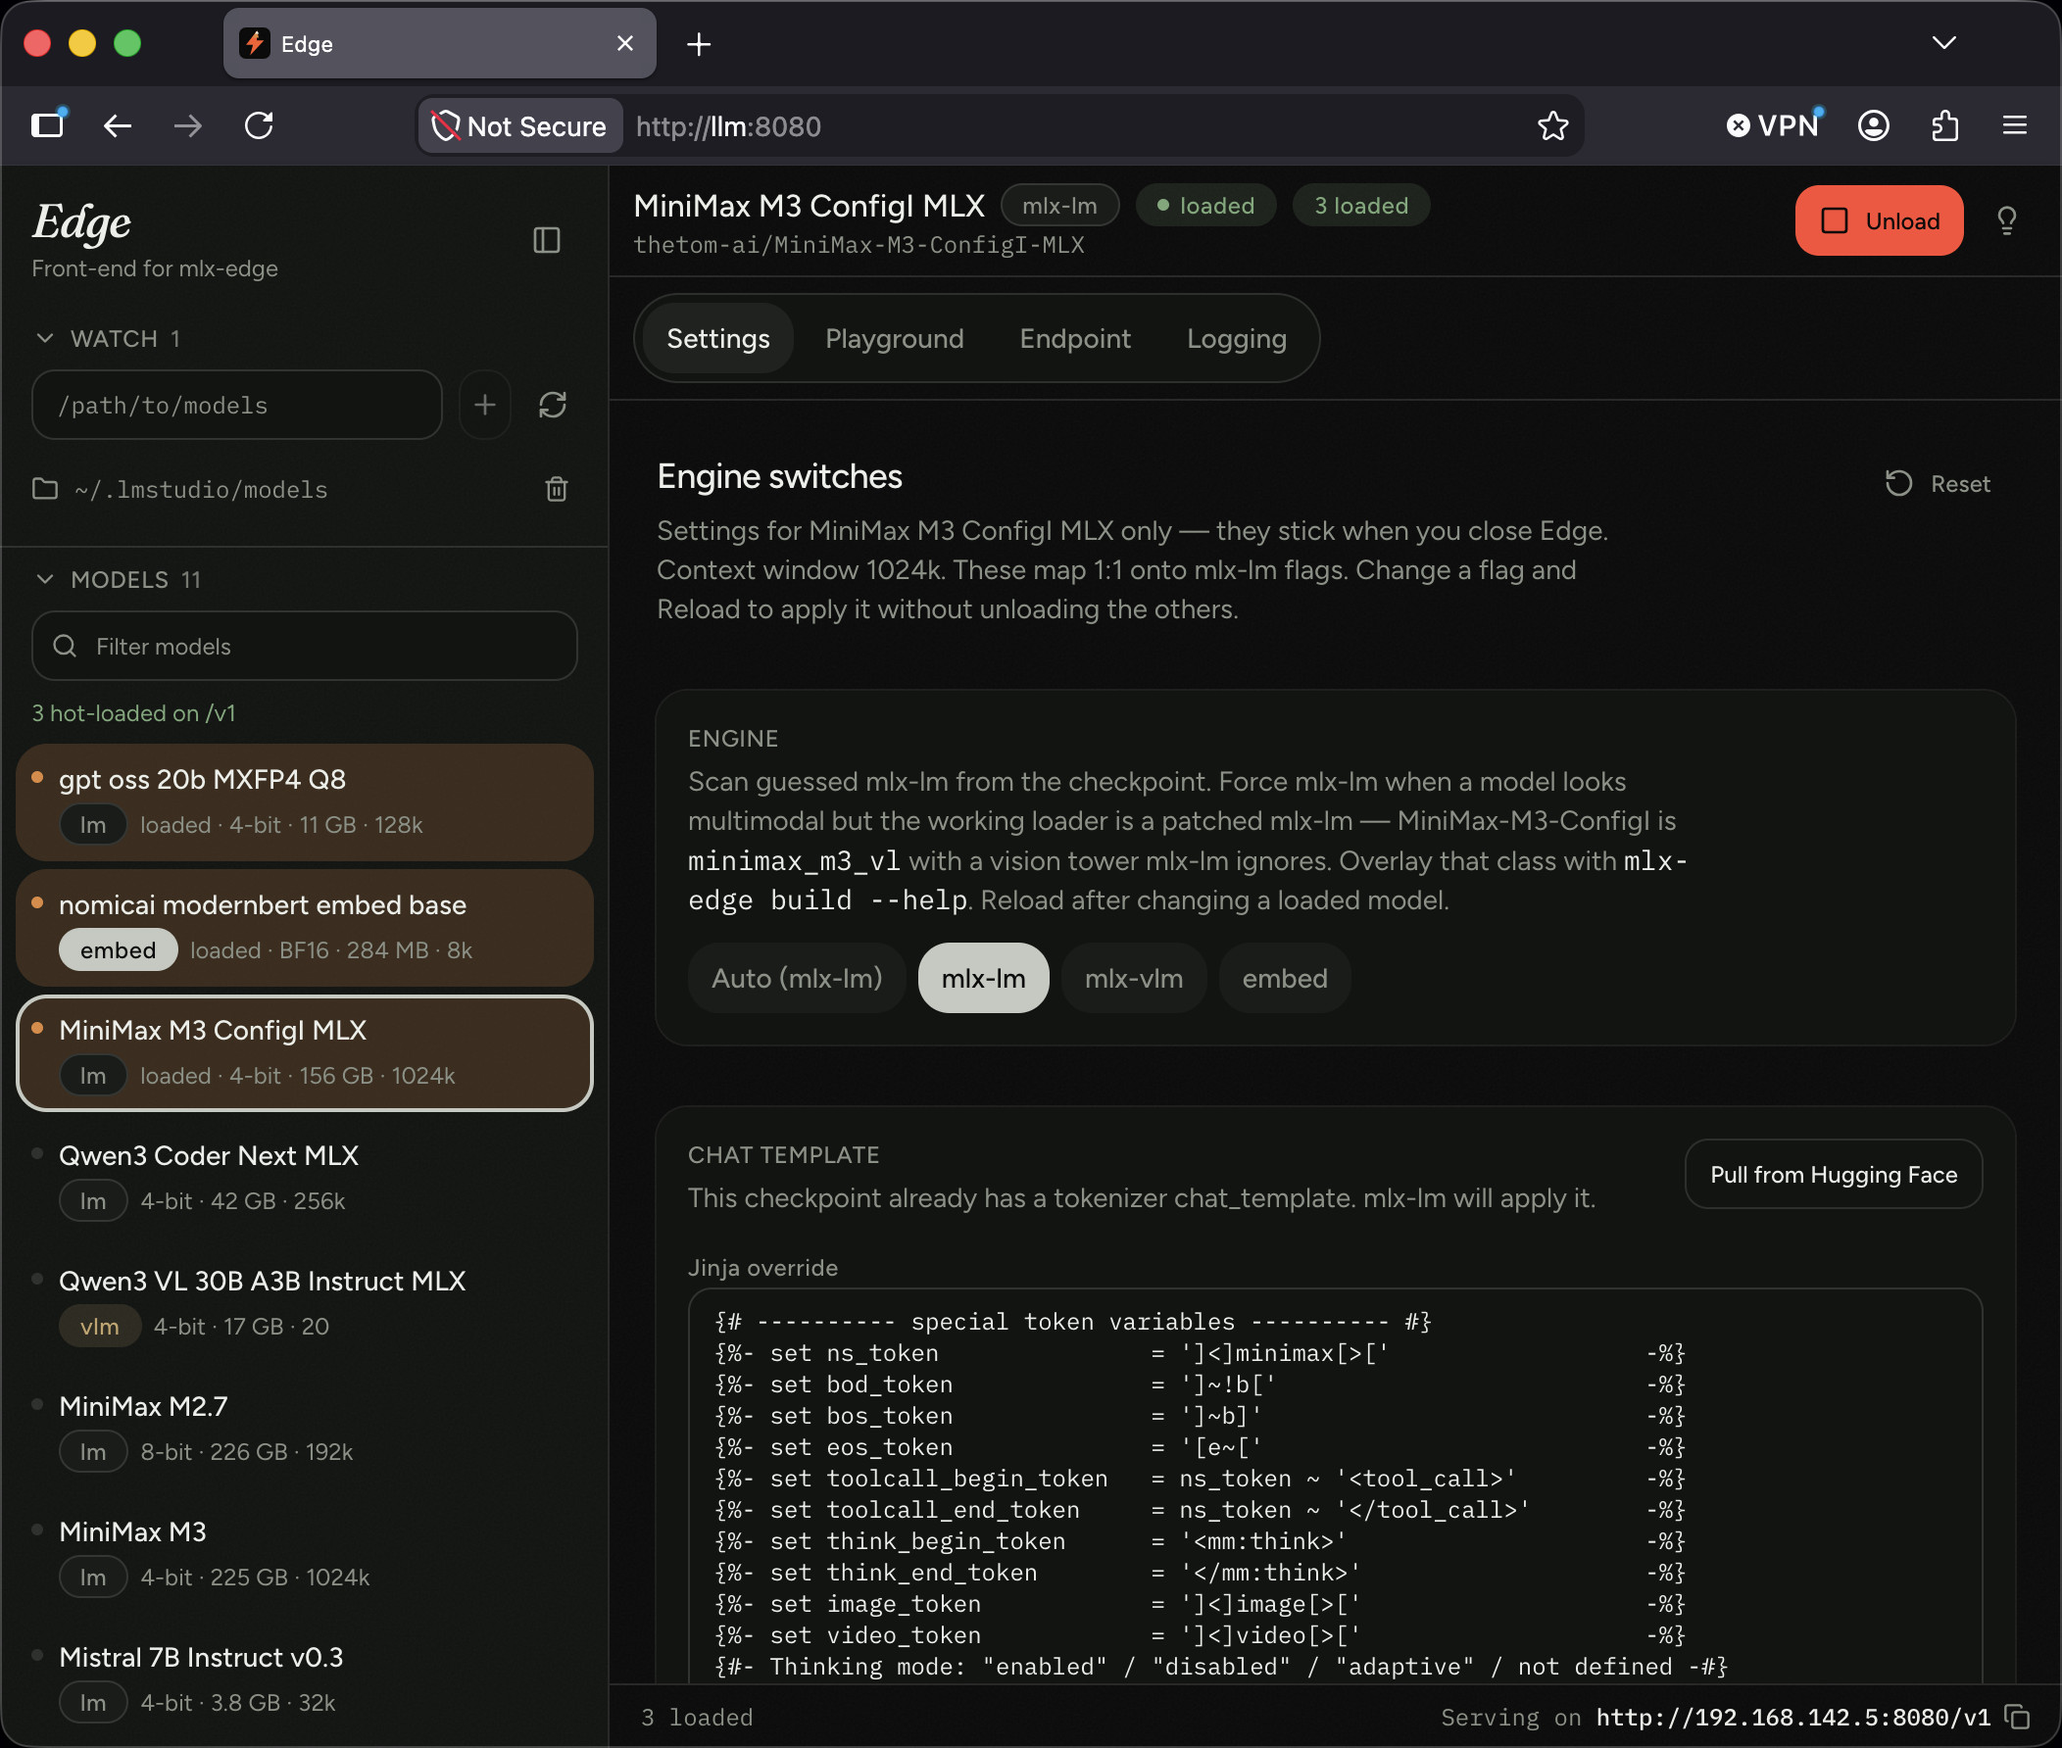
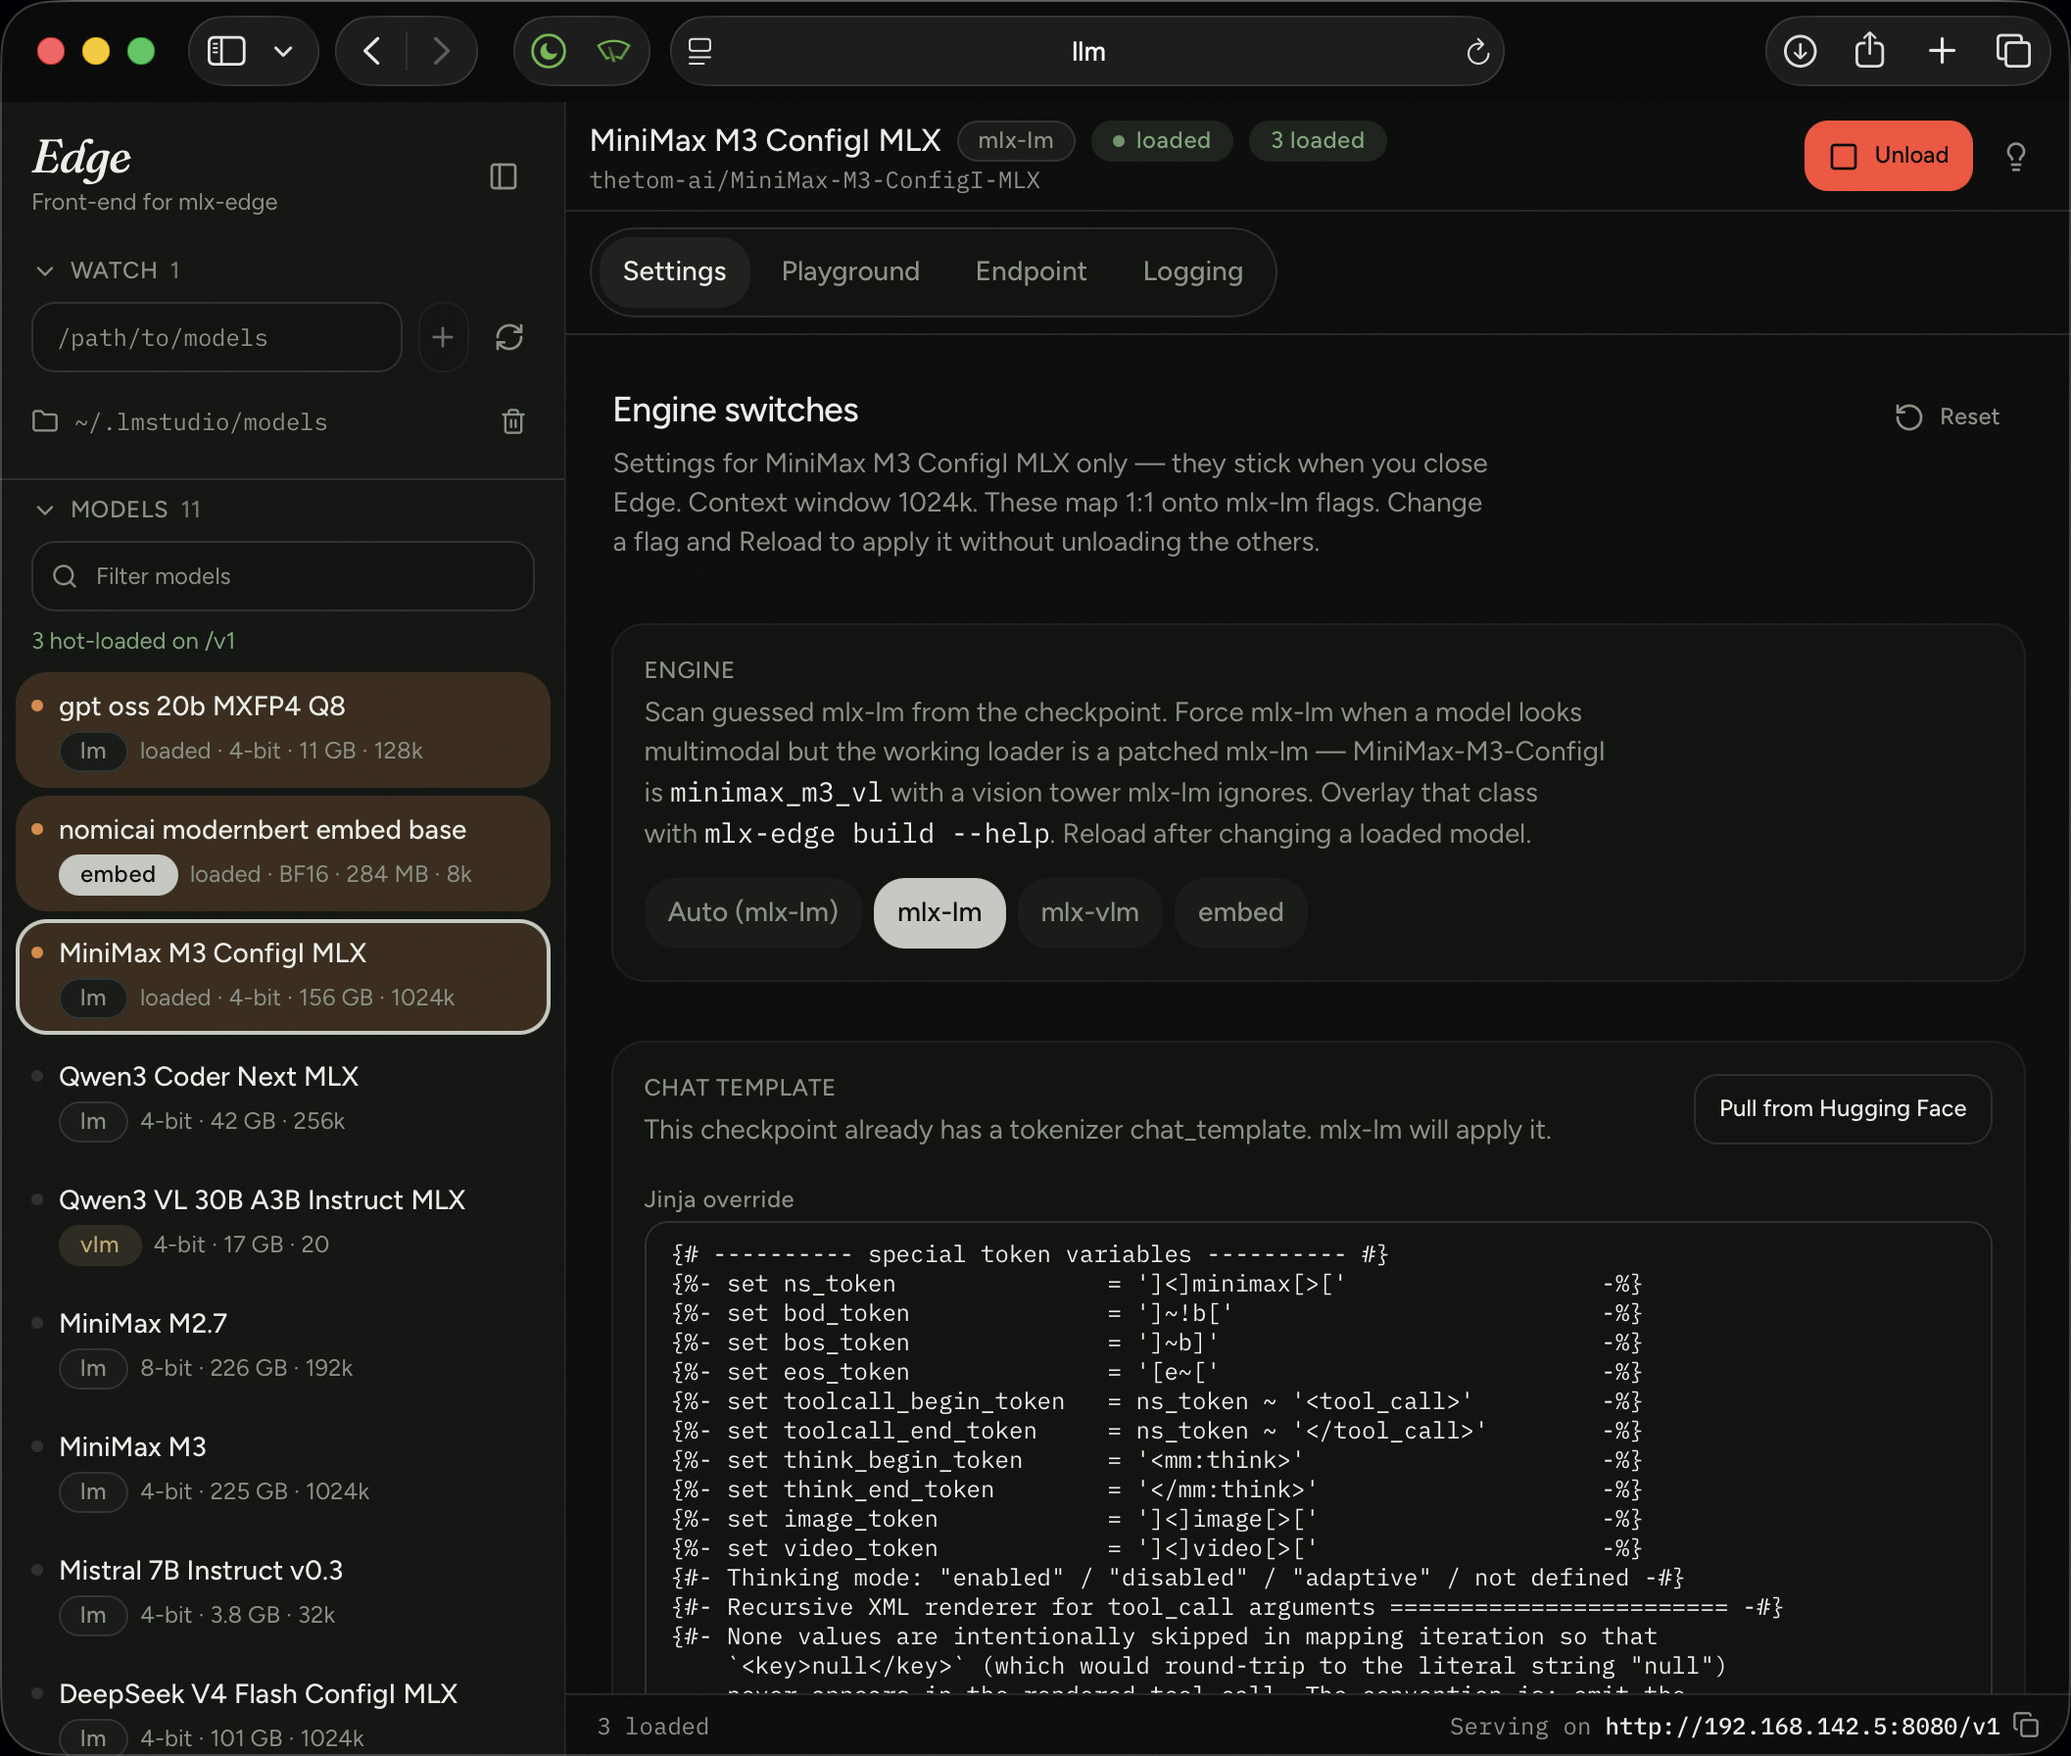
README: swap hero to the Safari shot
The Firefox window chrome read as a thick border. Use the Safari
screenshot instead.

diff --git a/README.md b/README.md
@@ -1,7 +1,7 @@
 # Edge
 
 <p align="center">
-  <img src="docs/hero.jpg" alt="Edge studio with MiniMax-M3, an embedding model, and Qwen3-VL hot-loaded on one OpenAI /v1" width="920">
+  <img src="docs/hero.jpg" alt="Edge studio with MiniMax-M3 ConfigI, gpt-oss, and an embedding model hot-loaded on one OpenAI /v1" width="920">
 </p>
 
 Local OpenAI-compatible gateway for Apple Silicon. Hot-load `mlx-lm`,
